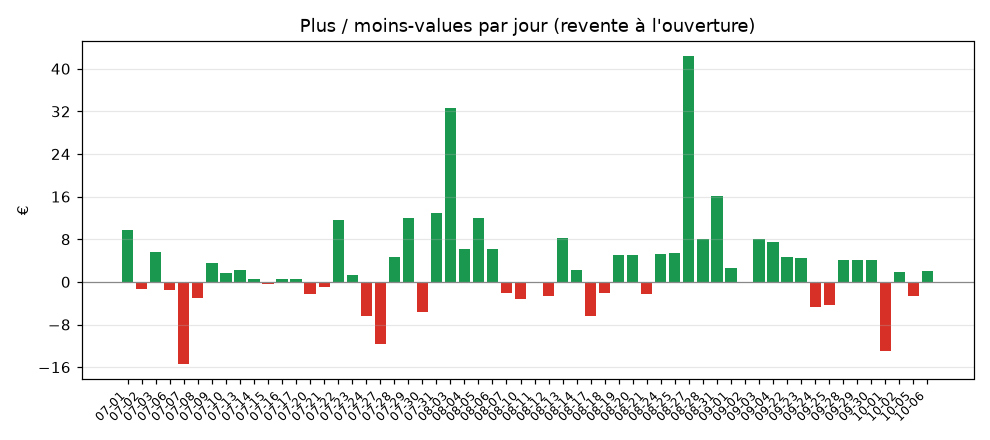
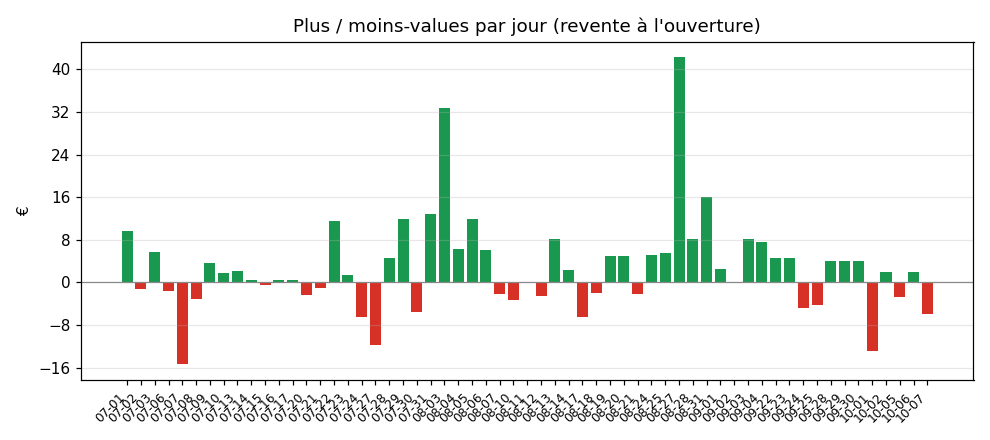
Analyse du 2026-10-07 (évaluation reconstituée après l'échec du push)
Le run du 07/10 a échoué au push (erreur interne GitHub) : évaluation des
achats du 06/10 recalculée avec --date 2026-10-07 --eval-seulement. Les
achats du 07/10 sont perdus et non rejouables sans biais.

Changed region(s): [[0.0303, 0.0295, 1.0, 0.975], [0.1818, 0.65, 0.2121, 0.6795], [0.0, 0.4727, 0.0303, 0.5023]]

diff --git a/reports/rapport_2026-10-07.md b/reports/rapport_2026-10-07.md
@@ -1,0 +1,103 @@
+# Rapport du Wednesday 07 October 2026
+
+> ⚠ **Rapport reconstitué le 08/10/2026.** Le passage automatique du 07/10 a bien tourné, mais la sauvegarde a échoué (erreur interne de GitHub au moment du push) : tout a été perdu. L'évaluation des achats du 06/10 a été recalculée à partir des cours du 07/10 (ouverture, 9h30 et midi identiques au log du run ; 17h = vraie clôture). Les **achats du 07/10 ne sont pas récupérables** (les rejouer aujourd'hui reviendrait à choisir avec un jour d'avance) : aucune position n'est donc évaluée le 08/10.
+
+### Évaluation des achats de la séance précédente
+
+**VRLA.PA — Verallia**  (acheté le 2026-10-06)
+- Prix d'entrée (clôture veille) : 17.00€
+- Revente à l'ouverture (09:00) : 🟢 17.10€  (+0.59%  soit +2.94€)
+- Revente 1re demi-heure (09:30) : 🔴 16.95€  (-0.29%  soit -1.47€)
+- Revente mi-journée (13:00) : 🟢 17.03€  (+0.18%  soit +0.88€)
+- Revente à 17h : 🟢 17.00€  (+0.00%  soit +0.00€)
+
+**LR.PA — Legrand**  (acheté le 2026-10-06)
+- Prix d'entrée (clôture veille) : 148.40€
+- Revente à l'ouverture (09:00) : 🔴 145.75€  (-1.79%  soit -8.93€)
+- Revente 1re demi-heure (09:30) : 🔴 144.80€  (-2.43%  soit -12.13€)
+- Revente mi-journée (13:00) : 🔴 143.80€  (-3.10%  soit -15.50€)
+- Revente à 17h : 🔴 142.10€  (-4.25%  soit -21.23€)
+
+**Total du portefeuille (somme des positions évaluées) :**
+- Ouverture : 🔴 -5.99€
+- 1re demi-heure : 🔴 -13.60€
+- Mi-journée : 🔴 -14.62€
+- 17h : 🔴 -21.23€
+
+### Tableau de bord — synthèse sur tout l'historique
+
+Positions évaluées : **100** (sur 100 enregistrées)
+
+| Scénario de sortie | P&L cumulé | Rendement moyen | Taux de réussite |
+|---|---:|---:|---:|
+| Ouverture (09:00) | 🟢 +167.04€ | +0.33% | 62% (62/100) |
+| 1re demi-heure (09:30) | 🟢 +62.77€ | +0.13% | 49% (49/100) |
+| Mi-journée (13:00) | 🟢 +3.41€ | +0.01% | 50% (50/100) |
+| 17h | 🔴 -111.38€ | -0.22% | 38% (38/100) |
+
+**Meilleure stratégie de sortie a posteriori : Ouverture (09:00)** (+167.04€ cumulés).
+
+Détail par scénario :
+- Ouverture (09:00) — meilleur : VLTSA.PA (+7.05%, 2026-08-25) | pire : STMPA.PA (-3.33%, 2026-07-06)
+- 1re demi-heure (09:30) — meilleur : VLTSA.PA (+6.02%, 2026-08-25) | pire : ATO.PA (-4.61%, 2026-09-30)
+- Mi-journée (13:00) — meilleur : MRN.PA (+6.57%, 2026-09-21) | pire : STMPA.PA (-5.51%, 2026-07-06)
+- 17h — meilleur : MRN.PA (+7.36%, 2026-09-21) | pire : STMPA.PA (-7.45%, 2026-07-06)
+
+## Métriques ajustées du risque (sortie ouverture, net de frais)
+
+_Basé sur 59 jour(s) évalué(s). Total net : +67.04€._
+
+| Métrique | Valeur | Lecture |
+|---|---:|---|
+| Sharpe (annualisé) | 1.95 | >1 bon, >2 excellent |
+| Sortino (annualisé) | 2.46 | pénalise la baisse |
+| Max drawdown | -43.84€ | pire creux cumulé |
+| Profit factor | 1.47 | gains/pertes, >1,5 solide |
+| Taux de réussite | 54% | jours gagnants |
+| Espérance / jour | 1.14€ | gain moyen par séance |
+| Gain moyen | 6.51€ | sur jours gagnants |
+| Perte moyenne | -5.24€ | sur jours perdants |
+
+**Significativité de l'alpha vs CAC 40 :**
+
+- Alpha moyen/jour : +0.070% (t-stat 0.55)
+- IC 95 % (bootstrap) : [-0.167% ; +0.335%]
+
+⚪ **Alpha non distinguable de zéro** (IC [-0.167% ; +0.335%] contient 0). Pas encore de preuve d'un edge — continue de mesurer.
+
+## Tableau de bord mensuel
+
+_Sortie de référence : **Ouverture**. Frais d'aller-retour estimés : 0.20% par position (P&L net)._
+
+| Mois | Jours | Ouverture | 9h30 | Midi | 17h | Ouverture (net) | Réussite |
+|---|---:|---:|---:|---:|---:|---:|---:|
+| 2026-10 | 5 | 🔴 -17.65€ | 🔴 -45.25€ | 🔴 -16.42€ | 🔴 -23.87€ | 🔴 -25.65€ | 40% |
+| 2026-09 | 11 | 🟢 +30.52€ | 🟢 +0.80€ | 🔴 -8.70€ | 🔴 -32.13€ | 🟢 +11.52€ | 73% |
+| 2026-08 | 20 | 🟢 +136.00€ | 🟢 +103.09€ | 🟢 +72.60€ | 🟢 +27.33€ | 🟢 +99.00€ | 65% |
+| 2026-07 | 23 | 🟢 +18.17€ | 🟢 +4.13€ | 🔴 -44.07€ | 🔴 -82.71€ | 🔴 -17.83€ | 57% |
+
+**Alpha vs CAC 40** (même capital « acheté chaque soir », stratégie NETTE de frais) :
+
+| Mois | Stratégie (ouv.) ★ | CAC overnight | Alpha ouv. ★ | Stratégie (17h) | CAC séance | Alpha 17h |
+|---|---:|---:|---:|---:|---:|---:|
+| 2026-10 | -25.65€ | -12.27€ | 🔴 -13.38€ | -31.87€ | -21.94€ | 🔴 -9.93€ |
+| 2026-09 | +11.52€ | +11.57€ | 🔴 -0.05€ | -51.13€ | -23.27€ | 🔴 -27.86€ |
+| 2026-08 | +99.00€ | +31.59€ | 🟢 +67.41€ | -9.67€ | +0.94€ | 🔴 -10.61€ |
+| 2026-07 | -17.83€ | +7.09€ | 🔴 -24.91€ | -118.71€ | +3.29€ | 🔴 -122.00€ |
+
+_★ = sortie de référence (Ouverture). Alpha positif = la sélection bat « acheter le CAC chaque soir ». C'est le vrai juge de la stratégie._
+
+### Détail du mois 2026-10 (jour par jour)
+
+_Meilleur/pire jour au scénario de référence (Ouverture)._
+
+- Meilleur jour : **2026-10-06** +2.04€ (ACA.PA+MAU.PA)
+- Pire jour : **2026-10-01** -12.94€ (ATO.PA+OPM.PA)
+
+| Date | Actions | Ouverture ★ | 9h30 | Midi | 17h |
+|---|---|---:|---:|---:|---:|
+| 2026-10-01 | ATO.PA+OPM.PA | 🔴 -12.94€ | 🔴 -26.39€ | 🟢 +7.22€ | 🟢 +9.62€ |
+| 2026-10-02 | MAU.PA | 🟢 +1.94€ | 🟢 +0.00€ | 🟢 +2.26€ | 🔴 -2.58€ |
+| 2026-10-05 | MRN.PA | 🔴 -2.70€ | 🔴 -7.28€ | 🔴 -0.94€ | 🟢 +1.17€ |
+| 2026-10-06 | ACA.PA+MAU.PA | 🟢 +2.04€ | 🟢 +2.02€ | 🔴 -10.34€ | 🔴 -10.85€ |
+| 2026-10-07 | VRLA.PA+LR.PA | 🔴 -5.99€ | 🔴 -13.60€ | 🔴 -14.62€ | 🔴 -21.23€ |

diff --git a/reports/bilan_mensuel.md b/reports/bilan_mensuel.md
@@ -1,4 +1,4 @@
-# Bilan mensuel — mis à jour le 2026-10-06 17:06
+# Bilan mensuel — mis à jour le 2026-10-08 05:54
 
 ## Tableau de bord mensuel
 
@@ -6,7 +6,7 @@ _Sortie de référence : **Ouverture**. Frais d'aller-retour estimés : 0.20% pa
 
 | Mois | Jours | Ouverture | 9h30 | Midi | 17h | Ouverture (net) | Réussite |
 |---|---:|---:|---:|---:|---:|---:|---:|
-| 2026-10 | 4 | 🔴 -11.66€ | 🔴 -31.65€ | 🔴 -1.80€ | 🔴 -2.64€ | 🔴 -17.66€ | 50% |
+| 2026-10 | 5 | 🔴 -17.65€ | 🔴 -45.25€ | 🔴 -16.42€ | 🔴 -23.87€ | 🔴 -25.65€ | 40% |
 | 2026-09 | 11 | 🟢 +30.52€ | 🟢 +0.80€ | 🔴 -8.70€ | 🔴 -32.13€ | 🟢 +11.52€ | 73% |
 | 2026-08 | 20 | 🟢 +136.00€ | 🟢 +103.09€ | 🟢 +72.60€ | 🟢 +27.33€ | 🟢 +99.00€ | 65% |
 | 2026-07 | 23 | 🟢 +18.17€ | 🟢 +4.13€ | 🔴 -44.07€ | 🔴 -82.71€ | 🔴 -17.83€ | 57% |
@@ -15,7 +15,7 @@ _Sortie de référence : **Ouverture**. Frais d'aller-retour estimés : 0.20% pa
 
 | Mois | Stratégie (ouv.) ★ | CAC overnight | Alpha ouv. ★ | Stratégie (17h) | CAC séance | Alpha 17h |
 |---|---:|---:|---:|---:|---:|---:|
-| 2026-10 | -17.66€ | -5.66€ | 🔴 -12.00€ | -8.64€ | -9.75€ | 🟢 +1.11€ |
+| 2026-10 | -25.65€ | -12.27€ | 🔴 -13.38€ | -31.87€ | -21.94€ | 🔴 -9.93€ |
 | 2026-09 | +11.52€ | +11.57€ | 🔴 -0.05€ | -51.13€ | -23.27€ | 🔴 -27.86€ |
 | 2026-08 | +99.00€ | +31.59€ | 🟢 +67.41€ | -9.67€ | +0.94€ | 🔴 -10.61€ |
 | 2026-07 | -17.83€ | +7.09€ | 🔴 -24.91€ | -118.71€ | +3.29€ | 🔴 -122.00€ |
@@ -35,3 +35,4 @@ _Meilleur/pire jour au scénario de référence (Ouverture)._
 | 2026-10-02 | MAU.PA | 🟢 +1.94€ | 🟢 +0.00€ | 🟢 +2.26€ | 🔴 -2.58€ |
 | 2026-10-05 | MRN.PA | 🔴 -2.70€ | 🔴 -7.28€ | 🔴 -0.94€ | 🟢 +1.17€ |
 | 2026-10-06 | ACA.PA+MAU.PA | 🟢 +2.04€ | 🟢 +2.02€ | 🔴 -10.34€ | 🔴 -10.85€ |
+| 2026-10-07 | VRLA.PA+LR.PA | 🔴 -5.99€ | 🔴 -13.60€ | 🔴 -14.62€ | 🔴 -21.23€ |

diff --git a/reports/metriques.md b/reports/metriques.md
@@ -2,22 +2,22 @@
 
 ## Métriques ajustées du risque (sortie ouverture, net de frais)
 
-_Basé sur 58 jour(s) évalué(s). Total net : +75.03€._
+_Basé sur 59 jour(s) évalué(s). Total net : +67.04€._
 
 | Métrique | Valeur | Lecture |
 |---|---:|---|
-| Sharpe (annualisé) | 2.20 | >1 bon, >2 excellent |
-| Sortino (annualisé) | 2.79 | pénalise la baisse |
+| Sharpe (annualisé) | 1.95 | >1 bon, >2 excellent |
+| Sortino (annualisé) | 2.46 | pénalise la baisse |
 | Max drawdown | -43.84€ | pire creux cumulé |
-| Profit factor | 1.56 | gains/pertes, >1,5 solide |
-| Taux de réussite | 55% | jours gagnants |
-| Espérance / jour | 1.29€ | gain moyen par séance |
+| Profit factor | 1.47 | gains/pertes, >1,5 solide |
+| Taux de réussite | 54% | jours gagnants |
+| Espérance / jour | 1.14€ | gain moyen par séance |
 | Gain moyen | 6.51€ | sur jours gagnants |
-| Perte moyenne | -5.13€ | sur jours perdants |
+| Perte moyenne | -5.24€ | sur jours perdants |
 
 **Significativité de l'alpha vs CAC 40 :**
 
-- Alpha moyen/jour : +0.073% (t-stat 0.56)
-- IC 95 % (bootstrap) : [-0.171% ; +0.343%]
+- Alpha moyen/jour : +0.070% (t-stat 0.55)
+- IC 95 % (bootstrap) : [-0.167% ; +0.335%]
 
-⚪ **Alpha non distinguable de zéro** (IC [-0.171% ; +0.343%] contient 0). Pas encore de preuve d'un edge — continue de mesurer.
+⚪ **Alpha non distinguable de zéro** (IC [-0.167% ; +0.335%] contient 0). Pas encore de preuve d'un edge — continue de mesurer.
